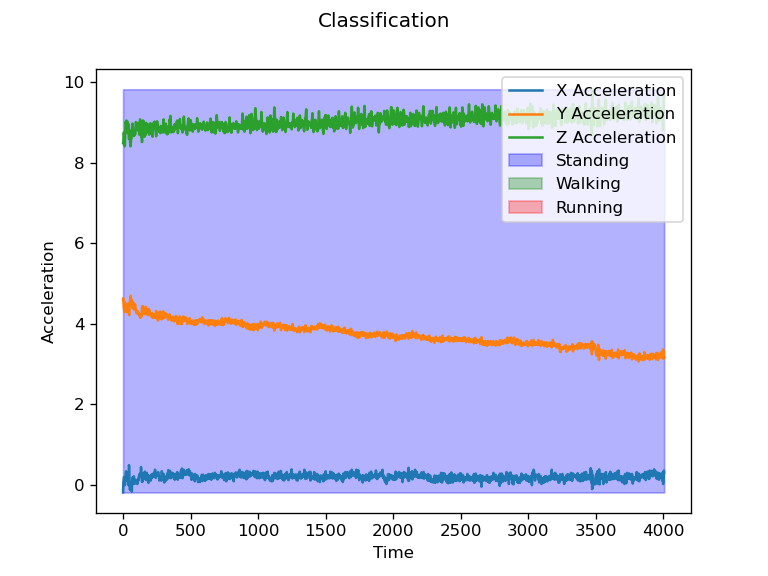
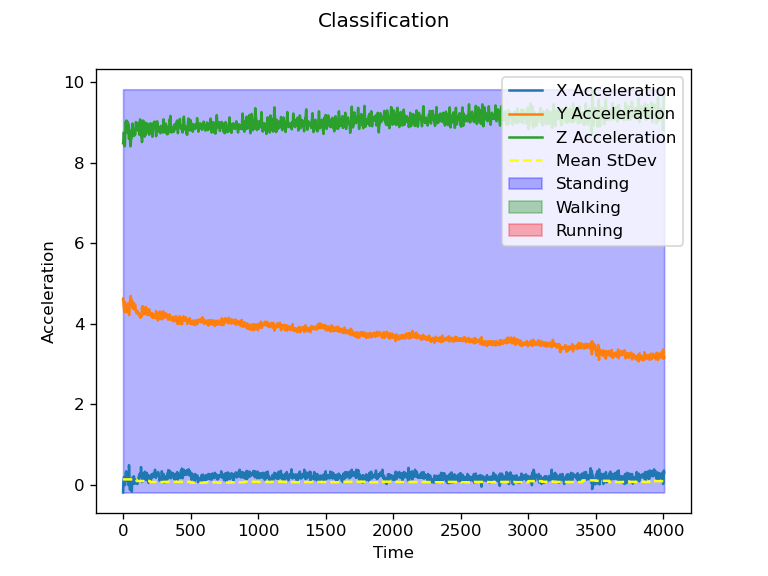
Plot mean stdev as well

Changed region(s): [[0.6562, 0.25, 0.9062, 0.4375], [0.1562, 0.8125, 0.875, 0.8438]]

diff --git a/recognize.py b/recognize.py
@@ -61,32 +61,34 @@ def buildClassifier(runningData,walkingData,standingData, WINDOW=100, STEPS=25):
 
 def classify(classifier, data):
     classifiedData = []
-    for i in range(classifier['WINDOW'],len(data), classifier['WINDOW']):
-        # First subd[0:100], then subd[100:200], etc.
-        subd = data[i-classifier['WINDOW']:i]
+    # Calc calculates the value for the given window,
+    #  and adds it to the classified data.
+    def classifyWindow(subd):
         meanStdDev = np.mean(np.std(subd,axis=0))
         dists = list(map(lambda m: (m[0], abs(meanStdDev - m[1])), classifier['means'].items()))
         (classification,confidence) = min(dists, key=lambda m: m[1])
         for j in range(len(subd)):
-            classifiedData.append((classification, subd[j]))
+            classifiedData.append((classification, meanStdDev, subd[j]))
+
+    for i in range(classifier['WINDOW'],len(data), classifier['WINDOW']):
+        # First data[0:100], then data[100:200], etc.
+        window = data[i-classifier['WINDOW']:i]
+        classifyWindow(window)
     # Repeate one last time if we missed any at the end.
     # But we need at least 2 elements! Otherwise we just apply the last label.
     if i+2 < len(data):
-        subd = data[i:len(data)]
-        meanStdDev = np.mean(np.std(subd,axis=0))
-        dists = list(map(lambda m: (m[0], abs(meanStdDev - m[1])), classifier['means'].items()))
-        (classification,confidence) = min(dists, key=lambda m: m[1])
-        for j in range(len(subd)):
-            classifiedData.append((classification, subd[j]))
+        window = data[i:len(data)]
+        classifyWindow(subd)
     else:
         for j in range(i,len(data)):
-            classifiedData.append((classification,data[j]))
+            classifiedData.append((classification, meanStdDev, data[j]))
     return np.asarray(classifiedData)
 
 
 def plotClassifiedData(data, filename="Classification.png"):
     labels = data[:,0]
-    dataarr = np.asarray(list(map(list,data[:,1])))
+    means = data[:,1]
+    dataarr = np.asarray(list(map(list,data[:,2])))
     maxY = np.max(dataarr)
     minY = np.min(dataarr)
 
@@ -100,6 +102,8 @@ def plotClassifiedData(data, filename="Classification.png"):
     x.set_label('X Acceleration')
     y.set_label('Y Acceleration')
     z.set_label('Z Acceleration')
+    m, = plt.plot(means, linestyle='--',color='yellow')
+    m.set_label('Mean StDev')
     plt.legend()
     plt.xlabel('Time')
     plt.ylabel('Acceleration')
